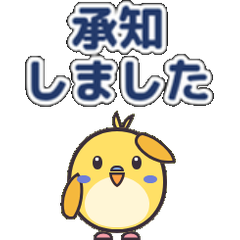
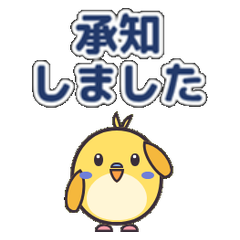
set01: QA round 1 fixes (wing poses 01/03/05/07, 01 text margin, main/tab margins)
Claude-Session: https://claude.ai/code/session_01RfomAZL54wRevPjVr3cHPk

Changed region(s): [[0.0875, 0.0, 0.9042, 1.0]]

diff --git a/tools/inko.py b/tools/inko.py
@@ -160,8 +160,8 @@ def J1(c):
 
 
 def J2(c): move(c, list(c), dy=-22)
-def SAL(c, dy=0): wing(c, "P7", 198, 166 + dy, 135)
-def W_A(c): wing(c, "P7", 226, 176, -150); happy(c)
+def SAL(c, dy=0): wing(c, "P7", 206, 176 + dy, -25)
+def W_A(c): wing(c, "P7", 215, 180, -150); happy(c)
 def W_B(c): wing(c, "P7", 228, 184, -115); happy(c)
 def N1(c): wing(c, "P6", 100, 190, 90); wing(c, "P7", 220, 190, -90)
 
@@ -172,8 +172,8 @@ def N2(c):
     happy(c)
     move(c, FACE, dy=-8)
     move(c, ["P5"], dy=-2)
-    wing(c, "P6", 98, 170, 160)
-    wing(c, "P7", 222, 170, -160)
+    wing(c, "P6", 110, 176, 160)
+    wing(c, "P7", 210, 176, -160)
 
 
 def shake(dx):
@@ -300,8 +300,8 @@ f06 = [F([B1, lambda c: eyes(c, "X", 16), shake(-3)], T(L06, 56, dx=2), [sweat(1
        F([B1, lambda c: eyes(c, "X", 16), shake(-3)], T(L06, 56, dx=2),
          [sweat(84, 130, 10, 15), sweat(236, 130, 10, 15)]),
        F([B1, lambda c: eyes(c, "X", 16), shake(3)], T(L06, 56, dx=-2))]
-f07 = [F([N2], T(L07, 48, dy=-4), [spark(64, 150), spark(256, 150)]),
-       F([N2], T(L07, 48, dy=-4), [spark(60, 176, 16), spark(260, 176, 16)])]
+f07 = [F([N2], T(L07, 48, dy=-4), [spark(76, 156), spark(244, 156)]),
+       F([N2], T(L07, 48, dy=-4), [spark(72, 182, 16), spark(248, 182, 16)])]
 SW = [(0, 0), (4, 5), (6, 8), (4, 5), (0, 0), (-4, -5), (-6, -8), (-4, -5)]
 ZZ = [[zz(228, 160, 28)], [zz(232, 152, 28)], [zz(236, 144, 28), zz(222, 168, 20)],
       [zz(240, 136, 28), zz(226, 160, 20)], [zz(230, 152, 20)], [zz(228, 160, 28), zz(234, 144, 20)],
@@ -309,7 +309,7 @@ ZZ = [[zz(228, 160, 28)], [zz(232, 152, 28)], [zz(236, 144, 28), zz(222, 168, 20
 
 STAMPS = {
     "01": [F([SAL], T(L01, 48)), F([S]), F([J0]), F([S], T(L01, 29)),
-           F([SAL], T(L01, 58), [spark(58, 70), spark(262, 70)]),
+           F([SAL], T(L01, 54), [spark(58, 70), spark(262, 70)]),
            F([SAL], T(L01, 46)), F([SAL], T(L01, 50)), F([SAL], T(L01, 48))],
     "02": [F([B2], T(L02, 48, dy=6)), F([B2], T(L02, 48, dy=6)), F([B1], T(L02, 48, dy=3)),
            F([happy], T(L02, 48)), F([happy], T(L02, 48), [spark(88, 150), spark(232, 140)]),

diff --git a/tools/stamp_tool.py b/tools/stamp_tool.py
@@ -128,10 +128,19 @@ def cmd_extras(a):
     img = next(ImageSequence.Iterator(img)).convert("RGBA")
     out = Path(a.outdir)
     out.mkdir(parents=True, exist_ok=True)
-    bbox = img.getbbox() or (0, 0, img.width, img.height)
-    img = img.crop(bbox)
-    fit(img, *MAIN_SIZE).save(out / "main.png", optimize=True)
-    fit(img, *TAB_SIZE).save(out / "tab.png", optimize=True)
+    def trim(im):
+        return im.crop(im.getbbox() or (0, 0, im.width, im.height))
+
+    def padded(im, w, h, pad):
+        canvas = Image.new("RGBA", (w, h), (0, 0, 0, 0))
+        inner = fit(im, w - pad * 2, h - pad * 2)
+        canvas.paste(inner, (pad, pad))
+        return canvas
+
+    padded(trim(img), *MAIN_SIZE, a.pad).save(out / "main.png", optimize=True)
+    # タブは小さいので文字を外し、キャラだけを大きく入れる
+    tab_src = trim(img.crop((0, a.tab_top, img.width, img.height))) if a.tab_top else trim(img)
+    padded(tab_src, *TAB_SIZE, 2).save(out / "tab.png", optimize=True)
     print(f"メイン画像: {out / 'main.png'}\nタブ画像  : {out / 'tab.png'}")
 
 
@@ -195,6 +204,8 @@ def main():
     s = sub.add_parser("extras", help="メイン画像/タブ画像を作成")
     s.add_argument("image")
     s.add_argument("-o", "--outdir", required=True)
+    s.add_argument("--pad", type=int, default=8, help="メイン画像の余白(px)")
+    s.add_argument("--tab-top", type=int, default=0, help="タブ画像はこのy座標より下(キャラ部分)だけを使う")
     s.set_defaults(func=cmd_extras)
 
     s = sub.add_parser("check", help="規定チェック")

diff --git a/work/set01/qa.md b/work/set01/qa.md
@@ -1,0 +1,82 @@
+# set01「ていねいインコ」品質チェック
+
+- チェック日: 2026-10-20 / 担当: 品質チェック
+- 対象: `anim/01.png`〜`08.png`(APNG)、`main.png`、`tab.png`、`design/0N_sheet.png`
+- 確認方法: APNG から全コマを取り出し、白背景・黒背景(ダークモード想定)に重ねて全コマを目で確認。キャラの周りは2〜3倍に拡大して確認。緑残りは画素単位で調べた(色相 65〜170°・彩度 0.25 以上・半透明の画素)
+
+## 総合判定: **要修正**
+
+規定(サイズ・コマ数・再生時間・容量)と緑残りは問題なし。ただし **羽の描き方の不具合が 01・03・05・07 の4個に出ていて**、しかもその多くがトーク一覧に静止画で表示されるコマ1に出ている。メイン画像も足が切れている。どれも直し方ははっきりしていて、作り直しの量は多くない。
+
+---
+
+## 1. 規定チェック
+
+| 項目 | 結果 |
+|---|---|
+| `stamp_tool.py check anim/0?.png --kind anim` | 8個すべて OK(320×270、8コマ、1.0秒×2ループ=2秒) |
+| 個数 | 8個(OK) |
+| メイン | 240×240 RGBA(OK)。ただし足が下の縁で切れている(4章) |
+| タブ | 96×74 RGBA(OK) |
+| 容量 | 最大は 06 の 298,575 バイト(291.6KiB)。上限300KBを 1000 バイト単位で数えた場合、残りは **約1.4KB しかない**。作り直すと超えるおそれがある |
+| 緑残り(APNG全64コマ) | 0画素。半透明の画素も0(縁は2値でくっきり) |
+| 緑残り(main/tab) | 黄緑寄りの画素が main 12個・tab 4個あるが、どれも不透明度30/255以下の縮小時のにじみで、目では見えない。問題なし |
+| 下の余白 | 全コマで下端 y=256(余白14px)。位置・大きさのぶれはなし |
+| 上の余白(10px未満) | 01 コマ5 **y=2**、03 y=8、07 y=9 |
+
+※ `--kind anim` のまま tab.png をチェックすると NG がたくさん出るが、アニメ用の判定を当てはめたせいで、規定違反ではない(このツールには main/tab 用の判定がない)。
+
+## 2. 権利・審査ガイドライン
+
+- 他者のキャラクター・商標・実在の人物に似たところは見当たらない。企画どおり、ほっぺは青紫の頬斑にしてあり、コウペンちゃんやちいかわの配色・顔立ちとは違う。
+- 公序良俗の問題なし。すべての個にキャラの動きがあり、文字だけのスタンプにはなっていない。
+- 誤字なし(承知しました/ありがとうございます/お疲れさまです/よろしくお願いします/了解です!/すみません/おはようございます/おやすみなさい)。改行の位置も自然。
+- フォントは企画の本命(源柔ゴシック)ではなく、予備の **M PLUS Rounded 1c** を使っている(`design/index.md` に記載)。OFL ライセンスなので商用利用は問題ない。8個とも同じ書体でそろっている。
+- セット内で同じ画像の使い回しはない。ただし 02 と 04 はおじぎのキャラ画像(B2/B1)が同じで、違うのは文字だけ(ガイドライン違反ではない。売れるかの面で指摘あり)。
+
+## 3. スタンプごとの判定
+
+| No | セリフ | 判定 | 指摘 | 差し戻し先 |
+|---|---|---|---|---|
+| 01 | 承知しました | **要修正** | (1) **敬礼が敬礼に見えない。** 右羽(SAL: 中心(198,166)・回転+135°)が頭の右上にのっていて、体の右側に羽の根元がない。そのため「頭にのせた葉っぱ/垂れた耳/前髪」に見える。コマ1・5〜8(一覧に出るコマ1も含む)。(2) コマ5の文字 T120(58px)の上端が **y=2** で、10px の余白からはみ出している。(3) コマ5のキラキラ(22×22、線2px)は、スマホで見るとほぼ点になるうえ、1コマ(125ms)しか出ないので気づかない | デザイン担当 |
+| 02 | ありがとうございます | 合格(任意改善) | (a) キラキラ A(22px)・B(16px)が小さく、スマホでは見えにくい。(b) コマ1(一覧に出る静止画)が深いおじぎのつぶれた体+閉じ目なので、「ありがとう」の明るさが伝わりにくい。(c) 04 と動きがほぼ同じ | デザイン担当 |
+| 03 | お疲れさまです | **要修正** | W_A(コマ1・3・5・7)で、**右羽が体から約7px離れて宙に浮いている**(羽の下端が x≈218, y≈198、体の輪郭は x≈211)。手をふっているのではなく、羽が飛んでいるように見える。一覧に出るコマ1もこのポーズ。W_B は体に接していて問題なし。文字が回転したとき上端が y=8 になる(軽微) | デザイン担当 |
+| 04 | よろしくお願いします | 合格(任意改善) | 動きのつながりはきれい(B1→B2 のループも自然)。02 とのちがいが目と文字だけなので、並べると同じスタンプに見える | デザイン担当 |
+| 05 | 了解です! | **要修正** | (1) 敬礼の羽が 01 と同じく「頭に羽」に見える(全コマ)。J1(コマ3・6)で体が縦に伸びると、さらに耳のように見える。(2) 文字の中心が x≈151 で、キャラ(x=160)より約9px左にずれている。全角「!」の右側の空きが原因(軽微) | デザイン担当 |
+| 06 | すみません | 合格(任意改善) | (a) 汗(12×18、コマ3は10×15)が小さく、スマホでは点に見える。(b) ぷるぷるの幅 ±3px は、スマホ表示(約1/2に縮小)だと ±1.5px 相当で、震えがほとんど見えない。(c) 容量の残りが約1.4KB | (a)(b) デザイン担当 / (c) アニメ化担当 |
+| 07 | おはようございます | **要修正** | N2(コマ1・2・7・8)で、**両羽が体から7〜11px離れて宙に浮いている**(ばんざいではなく、楕円が2つ浮いているように見える)。一覧に出るコマ1もこのポーズ。N1・S は問題なし。文字の上端 y=9(軽微) | デザイン担当 |
+| 08 | おやすみなさい | 合格 | ゆらゆらと Z の動きが分かりやすく、ループのつなぎ目(コマ8→1)も自然。Z は白フチ付きで、黒背景でも読める | - |
+| main | (01 の静止画) | **要修正** | **足の下半分が下の縁(y=239)で切れている。**文字の外側の線も上の縁(y=0)に当たって切れている。ストアの顔になる画像なので、余白は必須。01 の敬礼を直したら、作り直しも必要 | アニメ化担当(01 の修正後に作り直す) |
+| tab | (01 の縮小) | 合格(任意改善) | 96×74 に「承知しました」が入っていて、文字が1字約9px でつぶれて読めない。キャラだけ大きく入れたほうが、トークのタブで見分けやすい | アニメ化担当 |
+
+## 4. 修正指示(具体的に)
+
+### 必須
+
+1. **01・05 敬礼ポーズ SAL を描き直す(デザイン担当)**
+   - 右羽 P7: 中心 (198,166) 回転 +135° → **中心 (206,176) 回転 −25°** を目安にする。羽先が右目の右上(おでこの縁、およそ (195,152))に触れ、羽の根元が体の右側(およそ (215,200))で体の輪郭に重なる形にする。「頭の上にのっている」のではなく「肩から上がった手がおでこに当たっている」ように見えればよい。
+   - 羽先の右上(およそ (228,148) あたり)に、短い強調線を3本(`#3A2E39` 3px、長さ8〜10px、放射状)入れて「ビシッ」を足すと、敬礼だと一目で分かる。
+   - 05 の J1/J2 でも同じ形を保つ(羽も体と同じ dy で動かす)。
+   - 直したら `main.png`・`tab.png` も作り直す。
+2. **01 コマ5 文字のはみ出し(デザイン担当)**: T120(58px)→ **T112(54px)** に下げるか、文字の中心 y を 66→72 に下げて、上端を y≥10 にする。
+3. **03 W_A の羽が浮いている(デザイン担当)**: 右羽の中心を (226,176) → **(215,180)**(dx −11、dy +4)に寄せる。羽の下端が体の輪郭線に3px以上重なることを確認する。コマ1・3・5・7 の4コマすべて。
+4. **07 N2 の羽が浮いている(デザイン担当)**: 左羽の中心 x を 98→**110**、右羽の中心 x を 222→**210**、y を 170→**176** に寄せる。羽の下端(体の側)が BODY_L の輪郭(x 114〜206)に3px以上重なるようにする。コマ1・2・7・8。キラキラの位置も同じだけ内側へ寄せる。
+5. **main.png の余白(アニメ化担当)**: 中身を約90%に縮めて中央に置き、上下左右に8px以上の余白を取る。足と文字の外側の線が切れないようにする。
+
+### 任意改善(合格のまま直してもよい)
+
+- 01 コマ5 のキラキラ: 22px → **36〜40px** にする。出すのはコマ5〜7の3コマ(40→32→24px と小さくしていく)。置く場所は文字の角だけでなく、敬礼の羽先の近く(およそ (240,140))にも1個置く。
+- 02 のキラキラ: A を 22→32px、B を 16→24px に大きくする。一覧に出るコマ1を S_h+SPARK(今のコマ5)に替える(順番を回して、コマ5〜8,1〜4 にする)。
+- 02 と 04 の見分け: 04 のおじぎに「ぺこっ」の動き線(頭の上に短い弧2本)を足す。または 02 だけ羽を胸の前で重ねる(感謝のポーズ)にして、見た目に差をつける。
+- 05: 「!」を半角にするか、文字全体を右へ約8px動かして、キャラの中心にそろえる。
+- 06: 汗を 18×27px(コマ3は 14×21px)に大きくし、ぷるぷるの幅を ±3 → ±5px にする。容量は、作り直す前に **270KB 以下**(1割の余裕)を目標に、パレット減色などで減らしておく(アニメ化担当)。
+- tab.png: 文字は入れず、インコ(顔+体)だけを 74px の高さいっぱいに入れる。
+- 全体: 白フチ P0 が省かれているので、黒背景ではキャラの輪郭が背景にとけ気味になる(体が黄色なので、形はちゃんと見える)。図形の数に余裕があれば P0 を戻す。
+- `design/index.md` に 01 しか載っていない。02〜08 も追記する(デザイン担当)。
+
+## 5. 売れるか
+
+- 調査結果(`research/text.md`・`character.md` 推奨案2)と合っている。30〜50代のタグ上位(了解/ありがとう/おはよう/おつかれさま/承知)を押さえていて、職場・PTA で毎日使う場面がすぐ思い浮かぶ。
+- 「承知しました」(目上向け)と「了解です!」(同僚向け)の両方があるのは、使い分けができてよい(text.md の「了解です は目上に向かない」とも合う)。
+- 弱い点: 調査で売りにした「動くでか文字」がはっきり出ているのは 01 だけで、ほかは文字が数px動くだけ。動きの見せ場は、ほぼキャラが担っている。次のセット以降で、文字のポン・ゆれを増やす余地がある。
+- キャラは黄色い卵形で冠羽があるため、パッと見は「ひよこ」に見えやすい(ひよこのスタンプは競合が多い)。インコらしさはろう膜と頬斑だけ。今回は直さなくてよいが、販売ページの説明文に「インコ」とはっきり書くこと。
